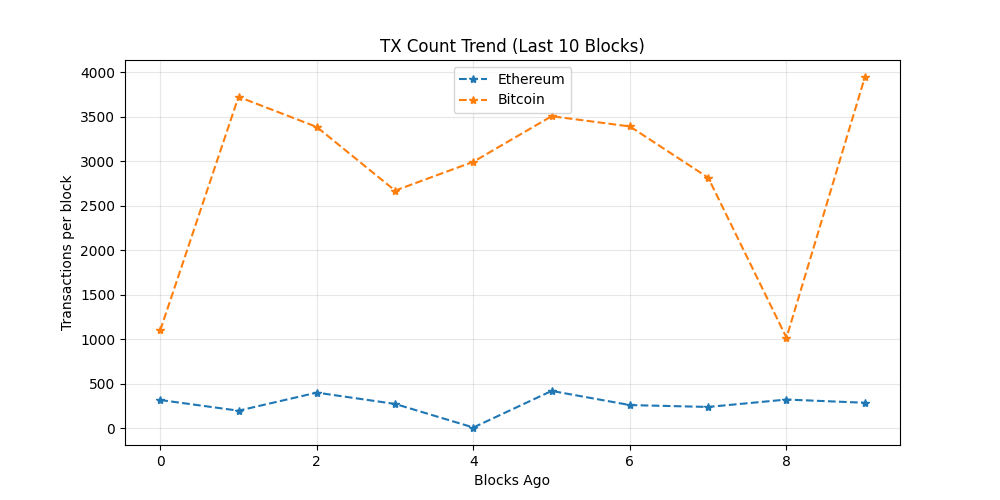
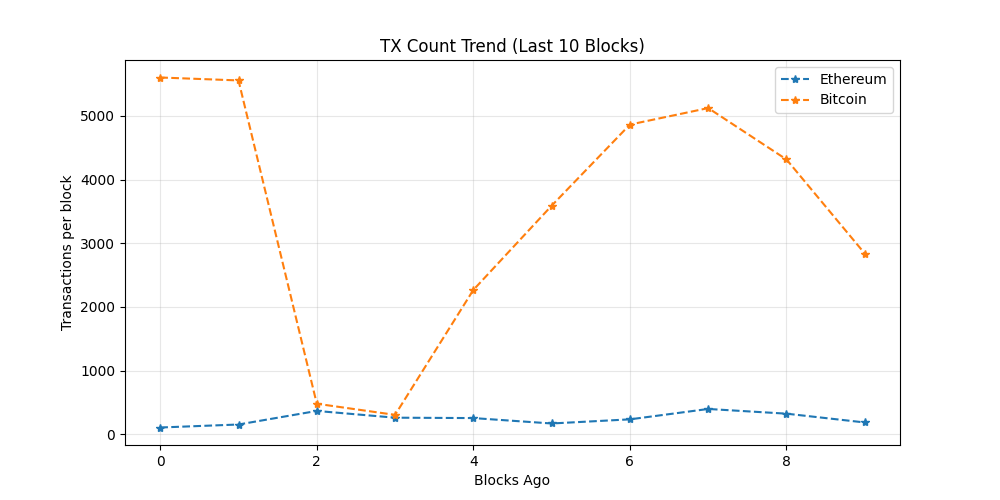
chore: update on-chain dashboard

diff --git a/README.md b/README.md
@@ -19,7 +19,7 @@ The README itself acts as the dashboard and is regenerated automatically on a 6 
 demonstrating a production-style, infrastructure-focused observability workflow rather
 than a traditional UI-driven approach.
 
-_Last updated: 2026-04-04 03:15 UTC_
+_Last updated: 2026-04-04 07:16 UTC_
 
 ## API Usage (GetBlock.io)
 - Calls used: **24**
@@ -27,8 +27,8 @@ _Last updated: 2026-04-04 03:15 UTC_
 ## Network Metrics
 | Chain | Block Height | TX Count | TPS (10 blk avg) | Block Util | Avg Fee |
 |------|-------------|----------|------------------|------------|---------|
-| Ethereum | 24803522 | 284 | 23.67 | 43.34% | 0.1 Gwei |
-| Bitcoin | 943580 | 3939 | 8.17 | 99.89% | N/A |
+| Ethereum | 24804727 | 187 | 15.58 | 26.92% | 0.1 Gwei |
+| Bitcoin | 943602 | 2839 | 0.0 | 99.8% | N/A |
 
 ## Visuals
 ### Transactions Trend
@@ -43,7 +43,8 @@ _Last updated: 2026-04-04 03:15 UTC_
 ## Whale Alerts (latest block)
 - Transaction hashes are truncated for readability.
 - Full hashes are available in `dashboards/metrics.json`
-- Bitcoin | 107.93 BTC | `7cb6d95261dd…`
+- Bitcoin | 158.49 BTC | `ab1acb21b612…`
+- Bitcoin | 141.57 BTC | `d277bf182174…`
 
 ## Run locally
 
